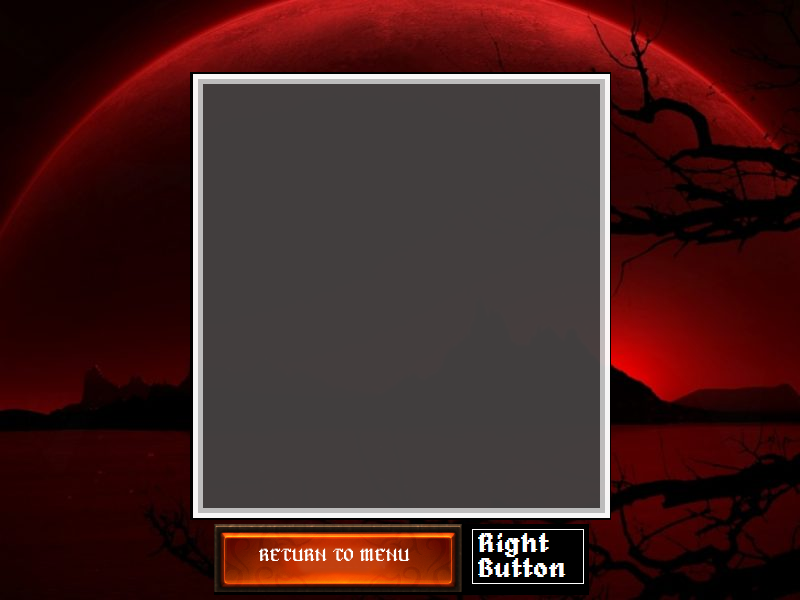
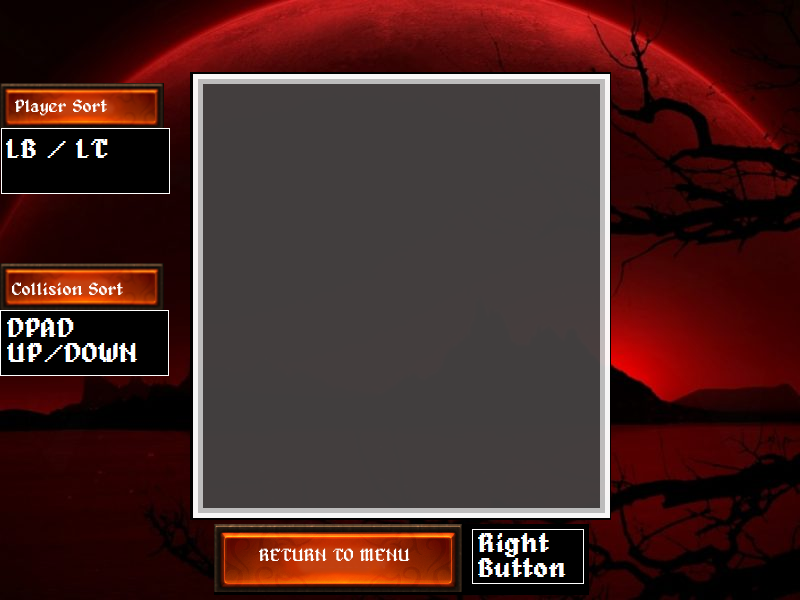
All project requirements are in place, fileio, linq etc Music doesn't stop on GameOver();

Changed region(s): [[0.0, 0.42, 0.2188, 0.63], [0.0, 0.12, 0.2188, 0.33]]

diff --git a/Runner/HighScore.cs b/Runner/HighScore.cs
@@ -15,6 +15,10 @@ namespace Runner
 {
     class HighScore
     {
+        public enum ScoreDisplays
+        {
+            PlayerAsc, PlayerDesc, CollisionAsc, CollisionDesc
+        }
         private Sprite highScore = new Sprite
         {
             Position = Vector2.Zero
@@ -26,11 +30,12 @@ namespace Runner
         string highscores = File.ReadAllText(curFile);
         private IList<string> backupScores = new List<string>();
         private IList<Record> tokenedList = new List<Record>();
+        private ScoreDisplays currentDisplay;
 
         private void Initialize()
         {
             ReadScoresToSB();
-            RecordsToDisplay();
+            RawTxtToRecordsList();
         }
 
         private void ReadScoresToSB()
@@ -63,13 +68,36 @@ namespace Runner
             }
 
             KeyboardState aCurrentKeyboardState = Keyboard.GetState();
-            //Big HEADS UP Might have to cheese it and use a Key Different than AXYB to navigate menus
-            //If you assign it B for instance it will close the game, A will start the game etc.
             if (aCurrentKeyboardState.IsKeyDown(Keys.Z) && lastKBoardState.IsKeyUp(Keys.Z))
             {
                 Game1.CurrentGameState = Game1.GameState.startMenu;
             }
+
+            aCurrentKeyboardState = ControlDisplaySort(aCurrentKeyboardState);
+
             lastKBoardState = aCurrentKeyboardState;
+        }
+
+        private KeyboardState ControlDisplaySort(KeyboardState aCurrentKeyboardState)
+        {
+            if (aCurrentKeyboardState.IsKeyDown(Keys.P) == true)
+            {
+                currentDisplay = ScoreDisplays.CollisionAsc;
+            }
+            else if (aCurrentKeyboardState.IsKeyDown(Keys.O) == true)
+            {
+                currentDisplay = ScoreDisplays.CollisionDesc;
+            }
+            else if (aCurrentKeyboardState.IsKeyDown(Keys.I) == true)
+            {
+                currentDisplay = ScoreDisplays.PlayerAsc;
+            }
+            else if (aCurrentKeyboardState.IsKeyDown(Keys.U) == true)
+            {
+                currentDisplay = ScoreDisplays.PlayerDesc;
+            }
+
+            return aCurrentKeyboardState;
         }
 
         public void LoadContent(ContentManager contentManager)
@@ -86,7 +114,7 @@ namespace Runner
             }
             return sb.ToString();
         }
-        private string RecordsToText()
+        private string DisplayCollisDesc()
         {
             IEnumerable<Record> results =
                 (from a in tokenedList
@@ -98,20 +126,79 @@ namespace Runner
             }
             return sb.ToString();
         }
-        private void RecordsToDisplay()
+
+        private string DisplayCollisAsc()
+        {
+            IEnumerable<Record> results =
+                (from a in tokenedList
+                 select a).OrderBy(x => x.Collisions);
+            StringBuilder sb = new StringBuilder();
+            foreach (Record s in results)
+            {
+                sb.AppendLine(s.ToString());
+            }
+            return sb.ToString();
+        }
+
+        private string DisplayPlayerDesc()
+        {
+            IEnumerable<Record> results =
+                (from a in tokenedList
+                 select a).OrderByDescending(x => x.Player);
+            StringBuilder sb = new StringBuilder();
+            foreach (Record s in results)
+            {
+                sb.AppendLine(s.ToString());
+            }
+            return sb.ToString();
+        }
+        private string DisplayPlayer()
+        {
+            IEnumerable<Record> results =
+                (from a in tokenedList
+                 select a).OrderBy(x => x.Player);
+            StringBuilder sb = new StringBuilder();
+            foreach (Record s in results)
+            {
+                sb.AppendLine(s.ToString());
+            }
+            return sb.ToString();
+        }
+
+
+        private void RawTxtToRecordsList()
         {
             foreach (string s in backupScores)
             {
                 string[] tokenHolder = s.Split(',');
-                tokenedList.Add(new Record(tokenHolder[0], Convert.ToInt32(tokenHolder[1])));
+                tokenedList.Add(new Record(Convert.ToInt32(tokenHolder[0]), Convert.ToInt32(tokenHolder[1])));
             }
         }
 
         public void Draw(SpriteBatch spriteBatch)
         {
+            KeyboardState currentState = Keyboard.GetState();
             highScore.Draw(spriteBatch);
-            spriteBatch.DrawString(highScoreFont, $"High Scores\n\n{RecordsToText()}", new Vector2(208, 59),
-                Color.Gold, 0, new Vector2(0, 0), .8f, SpriteEffects.None, 0);
+            if (currentDisplay == ScoreDisplays.CollisionDesc)
+            {
+                spriteBatch.DrawString(highScoreFont, $"High Scores\n\n{DisplayCollisDesc()}", new Vector2(208, 59),
+                    Color.Gold, 0, new Vector2(0, 0), .8f, SpriteEffects.None, 0);
+            } else if (currentDisplay == ScoreDisplays.CollisionAsc)
+            {
+                spriteBatch.DrawString(highScoreFont, $"High Scores\n\n{DisplayCollisAsc()}", new Vector2(208, 59),
+                    Color.Gold, 0, new Vector2(0, 0), .8f, SpriteEffects.None, 0);
+            }
+            else if (currentDisplay == ScoreDisplays.PlayerDesc)
+            {
+                spriteBatch.DrawString(highScoreFont, $"High Scores\n\n{DisplayPlayerDesc()}", new Vector2(208, 59),
+                    Color.Gold, 0, new Vector2(0, 0), .8f, SpriteEffects.None, 0);
+            }
+            else if (currentDisplay == ScoreDisplays.PlayerAsc)
+            {
+                spriteBatch.DrawString(highScoreFont, $"High Scores\n\n{DisplayPlayer()}", new Vector2(208, 59),
+                    Color.Gold, 0, new Vector2(0, 0), .8f, SpriteEffects.None, 0);
+            }
+
         }
     }
 }

diff --git a/Runner/GamePlayScreen.cs b/Runner/GamePlayScreen.cs
@@ -4,6 +4,7 @@ using Microsoft.Xna.Framework.Graphics;
 using Microsoft.Xna.Framework.Input;
 using System;
 using System.Collections.Generic;
+using System.IO;
 using System.Linq;
 using System.Text;
 using System.Threading.Tasks;
@@ -31,7 +32,9 @@ namespace Runner
         //Nice for Calculating screen positions ie screenWidth * .8 positions at 80% of screen
         private const int screenWidth = 800;
         private const int screenHeight = 600;
-        private int collisions; 
+
+        private static int collisions;
+        private static int player;
 
         private static float totalTimeStart = 120; //2 Min
         private IList<Sprite> jumpObstacles = new List<Sprite>();
@@ -115,7 +118,7 @@ namespace Runner
             //Decrement timer to 0
             TimerHandler(gameTime);
 
-            if(rick.Position.X <= 75)
+            if (rick.Position.X <= 75)
             {
                 collisions++;
             }
@@ -130,7 +133,7 @@ namespace Runner
 
             background0.Position += MoveSprite(gameTime, direction, speed);
             background1.Position += MoveSprite(gameTime, direction, speed);
-            flyer.Position += MoveSprite(gameTime, direction, speed * new Vector2(2,0)) ;
+            flyer.Position += MoveSprite(gameTime, direction, speed * new Vector2(2, 0));
             for (int i = 0; i < jumpObstacles.Count; i++)
             {
                 jumpObstacles[i].Position += MoveSprite(gameTime, direction, speed);
@@ -177,8 +180,35 @@ namespace Runner
             else
             {
                 totalTimeStart = 0;
+                GameOver();
+
+                Game1.CurrentGameState = Game1.GameState.startMenu;
             }
         }
+
+        private static void GameOver()
+        {
+            player++;
+
+            try
+            {
+                string path = @"Content\ScoreRecords.txt";
+                string line = $"{player}, {collisions}";
+                using (StreamWriter writer = new StreamWriter(@"Content\ScoreRecords.txt")/*File.AppendText(path)*/)
+                {
+                    writer.WriteLine(line);
+                }
+            }
+            catch (Exception ex)
+            {
+                Console.WriteLine("gps Reader failure");
+                Console.WriteLine(ex.Message);
+            }
+
+            collisions = 0;
+            totalTimeStart = 120;
+        }
+
         private void TileBackground()
         {
             if (background0.Position.X < -background0.Size.Width + screenWidth)
@@ -222,6 +252,12 @@ namespace Runner
 
             spriteBatch.DrawString(timerFont, $"Collisions: {collisions}", new Vector2(700, 70), //70 is inbetween Leaves of trees
                Color.Yellow, 0, new Vector2(0, 0), .8f, SpriteEffects.None, 0);
+
+            spriteBatch.DrawString(timerFont, $"player: {player}", new Vector2(500, 40), //70 is inbetween Leaves of trees
+        Color.Yellow, 0, new Vector2(0, 0), .8f, SpriteEffects.None, 0);
+
+            spriteBatch.DrawString(timerFont, $"File Exists?: {File.Exists(@"Content\ScoreRecords.txt")}", new Vector2(600, 20), //70 is inbetween Leaves of trees
+        Color.Yellow, 0, new Vector2(0, 0), .8f, SpriteEffects.None, 0);
         }
 
     }

diff --git a/Runner/Game1.cs b/Runner/Game1.cs
@@ -42,7 +42,7 @@ namespace Runner
         private KeyboardState currentKboardState;
 
         //Used to Switch between screens and music Works Great right now, needs to be a screenManager/Sound class 
-        private static GameState currentGameState = GameState.startMenu;
+        private static GameState currentGameState = GameState.introVideoPlaying;
         public static GameState CurrentGameState
         {
             get { return currentGameState; }
@@ -117,6 +117,7 @@ namespace Runner
         /// <param name="gameTime">Provides a snapshot of timing values.</param>
         protected override void Update(GameTime gameTime)
         {
+            game1 = bgEffect.CreateInstance();
             //Built in Exit via Esc or Back
             if (GamePad.GetState(PlayerIndex.One).Buttons.Back == ButtonState.Pressed || Keyboard.GetState().IsKeyDown(Keys.Escape))
                 Exit();
@@ -130,7 +131,12 @@ namespace Runner
             //Control Menu Sound and Video start/stops //Needs Button added along with actions
             if (currentGameState == GameState.startMenu)
             {
+                game1.Volume = 0;
+                game1.Stop();
+                game1.Pause();
                 menu.StartMenu(gameTime, this);
+                game1.Volume = 0;
+
             }
             if (currentGameState == GameState.howToPlay)
             {
@@ -140,20 +146,20 @@ namespace Runner
             {
                 hScore.HighScoreMenu(gameTime);
             }
-            if (currentGameState == GameState.gamePlaying)
 
-                //Actual Gameplay stuff starts here, function and input
-                if (currentGameState == GameState.gamePlaying)
+            //Actual Gameplay stuff starts here, function and input
+            if (currentGameState == GameState.gamePlaying)
+            {
+                currentKboardState = Keyboard.GetState();
+                if (songHasNotStarted)
                 {
-                    currentKboardState = Keyboard.GetState();
-                    if (songHasNotStarted)
-                    {
-                        game1 = bgEffect.CreateInstance();
-                        game1.Play();
-                        songHasNotStarted = false;
-                    }
-                    gameStarter.GamePlayStart(gameTime);
+                    //game1 = bgEffect.CreateInstance();
+                    game1.Volume = .4f;
+                    game1.Play();
+                    songHasNotStarted = false;
                 }
+                gameStarter.GamePlayStart(gameTime);
+            }
             base.Update(gameTime);
         }
 

diff --git a/Runner/recordStruct.cs b/Runner/recordStruct.cs
@@ -8,33 +8,33 @@ namespace Runner
 {
     public struct Record : IComparable<Record>
     {
-        public string GameDate { get; }
+        public int Player { get; }
 
         public int Collisions { get; }
 
-        public Record(string date, int collisions)
+        public Record(int player, int collisions)
         {
-            GameDate = date;
+            Player = player;
             Collisions = collisions;
         }
 
         public override string ToString()
         {
-            return $"{GameDate.ToString()}, Collisions: {Collisions}";
+            return $"Player: {Player.ToString()}, Collisions: {Collisions}";
         }
 
         int IComparable<Record>.CompareTo(Record other)
         {
-            if(other.GameDate == other.GameDate)
+            if(other.Player == other.Player)
             {
                 return this.Collisions.CompareTo(other.Collisions); 
             }
 
-            return other.GameDate.CompareTo(this.GameDate);
+            return other.Player.CompareTo(this.Player);
         }
         public bool Equals(Record other)
         {
-            if (GameDate == other.GameDate && other.Collisions == Collisions)
+            if (Player == other.Player && other.Collisions == Collisions)
             {
                 return true;
             }
@@ -44,7 +44,7 @@ namespace Runner
         public override int GetHashCode()
         {
             int result = 17;
-            result = 31 * result + GameDate.GetHashCode();
+            result = 31 * result + Player.GetHashCode();
             result = 31 * result + (int)Collisions;
             return result;
         }
